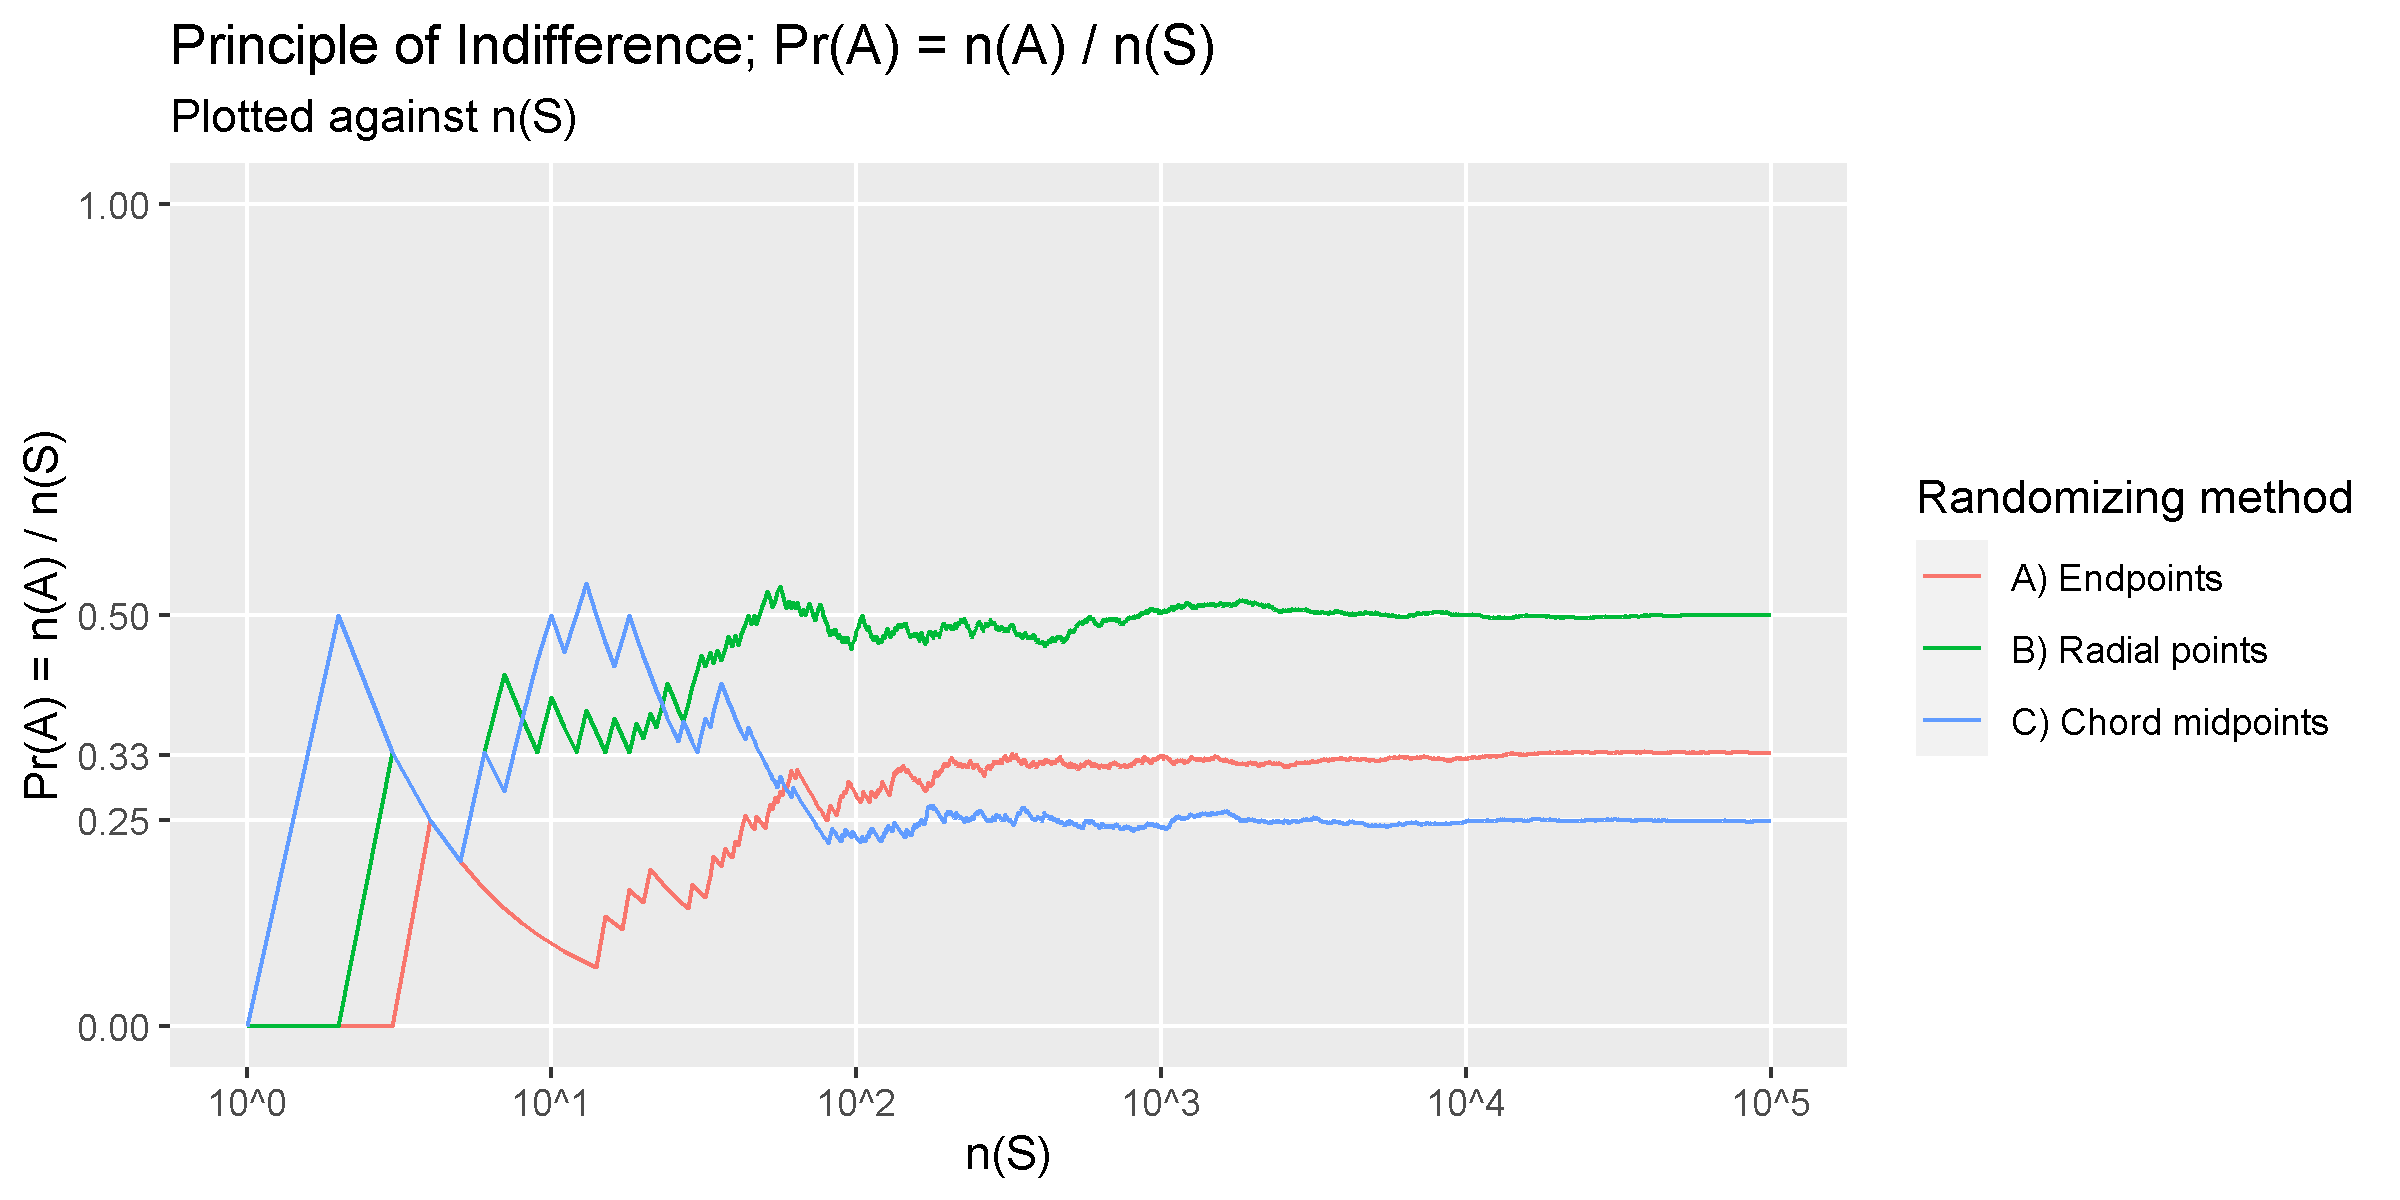
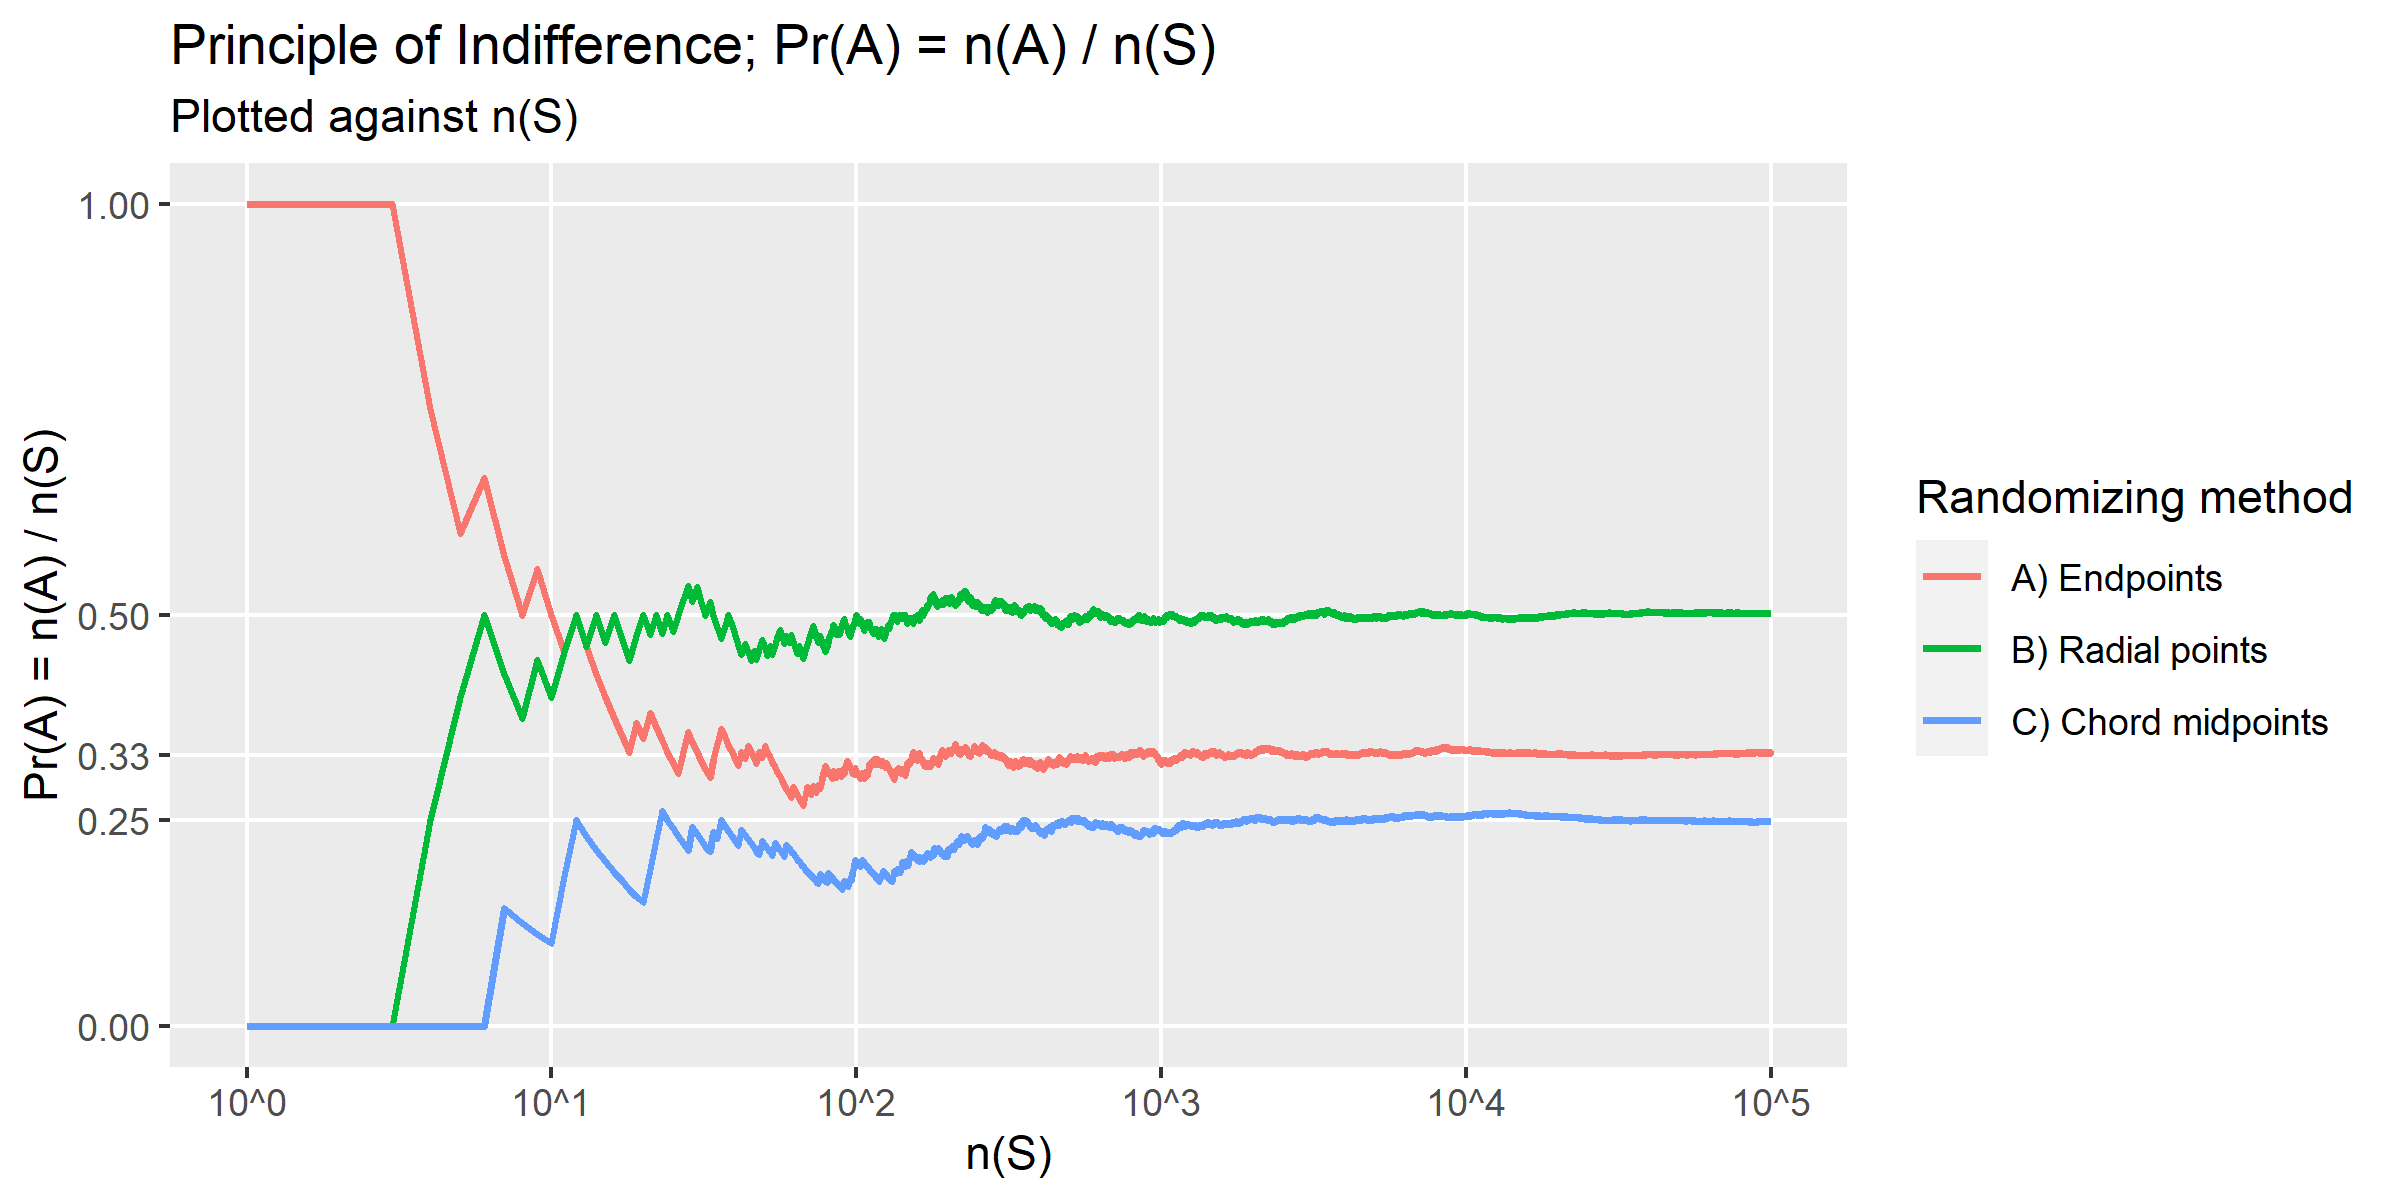
updating README.md and upload graphics

diff --git a/README.md b/README.md
@@ -1,12 +1,18 @@
 # Results
 
-As the number of outputs $n(S)$ increases, $\Pr(A) = \frac{n(A)}{n(S)}$ converges, depending on randomizing method used, to
+## Animation visualizing Bertrand's Paradox (500 samples, click to play)
+
+![Plot showing convergence of Pr(A)](assets/bp_anim.gif)
+
+As demonstrated above, depending on the method of randomization, the value of $\Pr(A) = \frac{n(A)}{n(S)}$ converges to:
 
 | Method | $Pr(A)$ |
 | ------ | ------- |
 | Random endpoints | $\frac{1}{3}$ |
-| Random radial points | $\frac{1}{2}$ |
-| Random chord midpoints | $\frac{1}{4}$ |
+| Random radial points | $\frac{1}{4}$ |
+| Random chord midpoints | $\frac{1}{2}$ |
+
+## Still image showing convergence of Pr(A) (10000 samples on a logarithmic horizontal scale, still image)
 
 ![Plot showing convergence of Pr(A)](assets/poi_plot.png)
 
